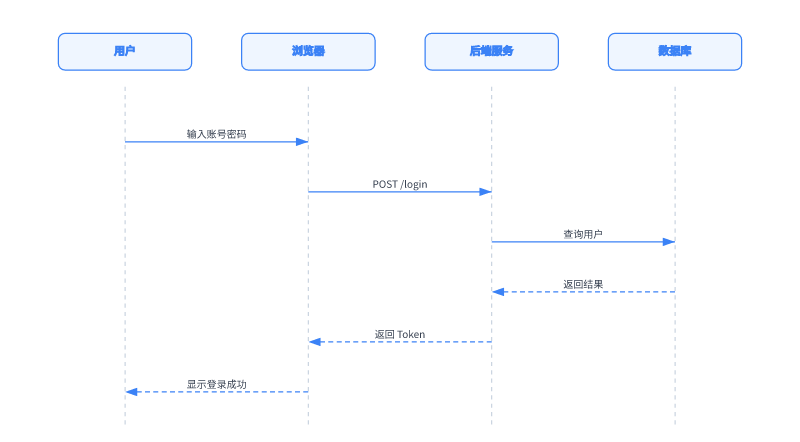
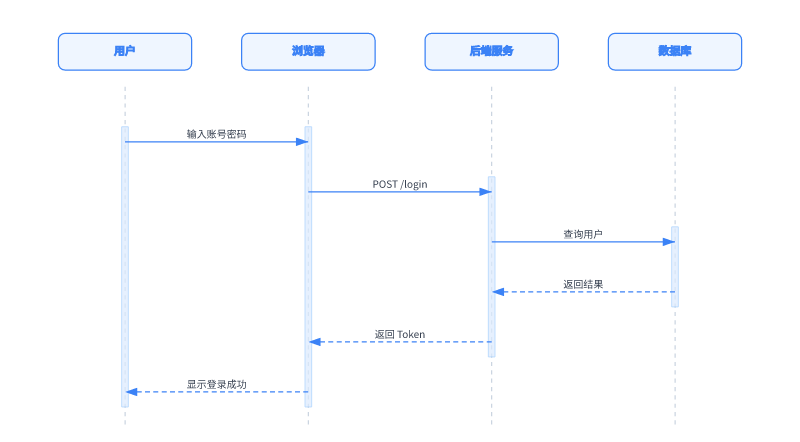
feat(render): sequence activation bars
Each participant gets a light-blue activation bar spanning its first to
last message in the exchange, drawn under message arrows (was missing
entirely). Verified by doubao: bars present on all 4 participants,
ranges match message intervals, return-dashed/request-solid intact.

diff --git a/packages/render/src/index.ts b/packages/render/src/index.ts
@@ -245,6 +245,29 @@ function renderSequence(doc: LgdlDocument, layout: LayoutResult): string {
     );
   }
 
+  // activation bars: each participant is active from its first to its last
+  // message in the exchange (drawn under the message arrows)
+  const actRange = new Map<string, { min: number; max: number }>();
+  for (const edge of layout.edges) {
+    const y = edge.points[0]?.y ?? bodyTop;
+    for (const p of [edge.from, edge.to]) {
+      const cur = actRange.get(p) ?? { min: Infinity, max: -Infinity };
+      cur.min = Math.min(cur.min, y);
+      cur.max = Math.max(cur.max, y);
+      actRange.set(p, cur);
+    }
+  }
+  for (const node of layout.nodes) {
+    const range = actRange.get(node.id);
+    if (!range) continue;
+    const cx = node.x + node.width / 2;
+    const top = range.min - 18;
+    const h = range.max - range.min + 36;
+    parts.push(
+      `<rect class="lgdl-activation" x="${cx - 4}" y="${top}" width="8" height="${h}" fill="#dbeafe" opacity="0.7" stroke="#93c5fd" stroke-width="1"/>`,
+    );
+  }
+
   // participant headers
   for (const node of layout.nodes) {
     const lgdlNode = doc.nodes.find((n) => n.id === node.id);
